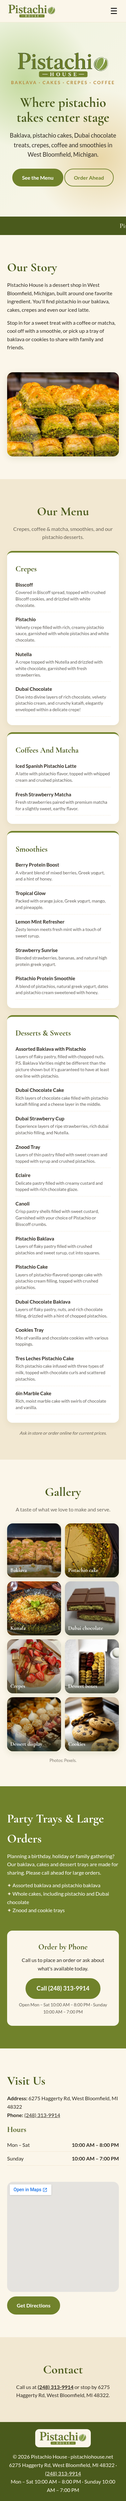
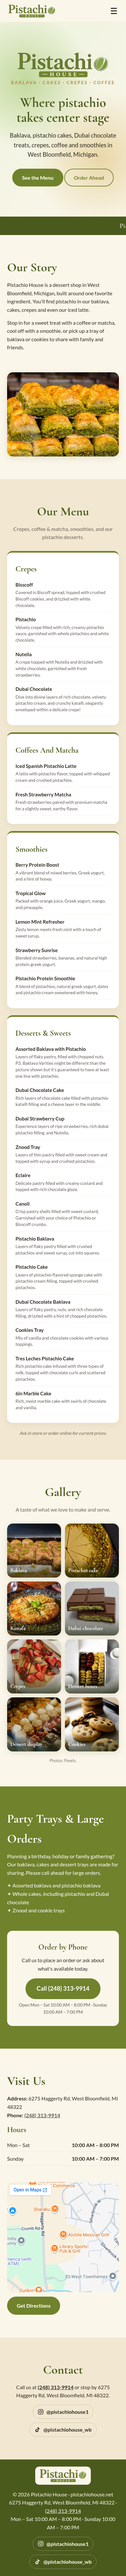
Add Instagram and TikTok links (contact, footer, JSON-LD sameAs)

diff --git a/index.html b/index.html
@@ -5,7 +5,7 @@
 <link rel="preconnect" href="https://fonts.googleapis.com"><link href="https://fonts.googleapis.com/css2?family=Cormorant+Garamond:wght@500;700&family=Lato:wght@400;700&display=swap" rel="stylesheet">
 <link rel="icon" href="favicon.ico" sizes="any"><link rel="icon" type="image/png" sizes="32x32" href="favicon-32.png"><link rel="apple-touch-icon" href="apple-touch-icon.png"><meta name="theme-color" content="#70822b">
 <meta property="og:type" content="website"><meta property="og:title" content="Pistachio House | Baklava, Pistachio Sweets &amp; Cakes"><meta property="og:description" content="Pistachio baklava, cakes, crepes, coffee and smoothies in West Bloomfield, MI."><meta property="og:url" content="https://pistachiohouse.net/"><meta property="og:image" content="https://pistachiohouse.net/images/og-image.png"><meta property="og:image:width" content="1200"><meta property="og:image:height" content="630"><meta name="twitter:card" content="summary_large_image">
-<link rel="stylesheet" href="styles.css"><script type="application/ld+json">{"@context":"https://schema.org","@type":["LocalBusiness","Bakery"],"name":"Pistachio House","url":"https://pistachiohouse.net","logo":"https://pistachiohouse.net/images/logo.png","image":"https://pistachiohouse.net/images/og-image.png","telephone":"+1-248-313-9914","address":{"@type":"PostalAddress","streetAddress":"6275 Haggerty Rd","addressLocality":"West Bloomfield","addressRegion":"MI","postalCode":"48322","addressCountry":"US"},"openingHoursSpecification":[{"@type":"OpeningHoursSpecification","dayOfWeek":["Monday","Tuesday","Wednesday","Thursday","Friday","Saturday"],"opens":"10:00","closes":"20:00"},{"@type":"OpeningHoursSpecification","dayOfWeek":"Sunday","opens":"10:00","closes":"19:00"}],"servesCuisine":"Desserts"}</script>
+<link rel="stylesheet" href="styles.css"><script type="application/ld+json">{"@context":"https://schema.org","@type":["LocalBusiness","Bakery"],"name":"Pistachio House","url":"https://pistachiohouse.net","sameAs":["https://www.instagram.com/pistachiohouse1/","https://www.tiktok.com/@pistachiohouse_wb"],"logo":"https://pistachiohouse.net/images/logo.png","image":"https://pistachiohouse.net/images/og-image.png","telephone":"+1-248-313-9914","address":{"@type":"PostalAddress","streetAddress":"6275 Haggerty Rd","addressLocality":"West Bloomfield","addressRegion":"MI","postalCode":"48322","addressCountry":"US"},"openingHoursSpecification":[{"@type":"OpeningHoursSpecification","dayOfWeek":["Monday","Tuesday","Wednesday","Thursday","Friday","Saturday"],"opens":"10:00","closes":"20:00"},{"@type":"OpeningHoursSpecification","dayOfWeek":"Sunday","opens":"10:00","closes":"19:00"}],"servesCuisine":"Desserts"}</script>
 </head><body>
 <header class="nav"><a href="#top" class="logo"><img src="images/logo-transparent.png" alt="Pistachio House" width="800" height="222"></a>
 <button class="burger" aria-label="Menu" onclick="document.body.classList.toggle('open')">☰</button>
@@ -27,7 +27,7 @@
 <div class="callbox"><h3>Order by Phone</h3><p>Call us to place an order or ask about what's available today.</p><a class="btn big" href="tel:+12483139914">Call (248) 313-9914</a><p class="small">Open Mon – Sat 10:00 AM – 8:00 PM · Sunday 10:00 AM – 7:00 PM</p></div></div></section>
 <section id="visit" class="wrap two"><div><h2>Visit Us</h2><p><b>Address:</b> 6275 Haggerty Rd, West Bloomfield, MI 48322<br><b>Phone:</b> <a href="tel:+12483139914">(248) 313-9914</a></p><h3>Hours</h3><table class="hours"><tr><td>Mon – Sat</td><td>10:00 AM – 8:00 PM</td></tr><tr><td>Sunday</td><td>10:00 AM – 7:00 PM</td></tr></table></div>
 <div class="mapbox"><iframe title="Map to Pistachio House" src="https://maps.google.com/maps?q=6275+Haggerty+Rd,+West+Bloomfield,+MI+48322&amp;output=embed" loading="lazy" referrerpolicy="no-referrer-when-downgrade"></iframe><a class="btn" target="_blank" rel="noopener" href="https://www.google.com/maps/dir/?api=1&amp;destination=6275+Haggerty+Rd,+West+Bloomfield,+MI+48322">Get Directions</a></div></section>
-<section id="contact" class="cream"><div class="wrap c"><h2>Contact</h2><p>Call us at <b><a href="tel:+12483139914">(248) 313-9914</a></b> or stop by 6275 Haggerty Rd, West Bloomfield, MI 48322.</p></div></section>
-<footer><img class="foot-logo" src="images/logo-transparent.png" alt="Pistachio House" width="800" height="222"><br>© <span id="y"></span> Pistachio House · pistachiohouse.net<br>6275 Haggerty Rd, West Bloomfield, MI 48322 · <a href="tel:+12483139914">(248) 313-9914</a><br>Mon – Sat 10:00 AM – 8:00 PM · Sunday 10:00 AM – 7:00 PM</footer>
+<section id="contact" class="cream"><div class="wrap c"><h2>Contact</h2><p>Call us at <b><a href="tel:+12483139914">(248) 313-9914</a></b> or stop by 6275 Haggerty Rd, West Bloomfield, MI 48322.</p><p class="social"><a href="https://www.instagram.com/pistachiohouse1/" target="_blank" rel="noopener" aria-label="Instagram @pistachiohouse1"><svg viewBox="0 0 24 24" width="20" height="20" aria-hidden="true" fill="none" stroke="currentColor" stroke-width="2" stroke-linecap="round" stroke-linejoin="round"><rect x="3" y="3" width="18" height="18" rx="5"/><circle cx="12" cy="12" r="4"/><circle cx="17.5" cy="6.5" r="1" fill="currentColor" stroke="none"/></svg><span>@pistachiohouse1</span></a><a href="https://www.tiktok.com/@pistachiohouse_wb" target="_blank" rel="noopener" aria-label="TikTok @pistachiohouse_wb"><svg viewBox="0 0 24 24" width="20" height="20" aria-hidden="true" fill="currentColor"><path d="M16.6 5.82A4.28 4.28 0 0 1 15.54 3h-3.09v12.4a2.59 2.59 0 0 1-2.59 2.5c-1.42 0-2.6-1.16-2.6-2.6 0-1.72 1.66-3.01 3.37-2.48V9.66c-3.45-.46-6.47 2.22-6.47 5.64 0 3.33 2.76 5.7 5.69 5.7 3.14 0 5.69-2.55 5.69-5.7V9.01a7.35 7.35 0 0 0 4.3 1.38V7.3s-1.88.09-3.24-1.48z"/></svg><span>@pistachiohouse_wb</span></a></p></div></section>
+<footer><img class="foot-logo" src="images/logo-transparent.png" alt="Pistachio House" width="800" height="222"><br>© <span id="y"></span> Pistachio House · pistachiohouse.net<br>6275 Haggerty Rd, West Bloomfield, MI 48322 · <a href="tel:+12483139914">(248) 313-9914</a><br>Mon – Sat 10:00 AM – 8:00 PM · Sunday 10:00 AM – 7:00 PM<div class="social"><a href="https://www.instagram.com/pistachiohouse1/" target="_blank" rel="noopener" aria-label="Instagram @pistachiohouse1"><svg viewBox="0 0 24 24" width="20" height="20" aria-hidden="true" fill="none" stroke="currentColor" stroke-width="2" stroke-linecap="round" stroke-linejoin="round"><rect x="3" y="3" width="18" height="18" rx="5"/><circle cx="12" cy="12" r="4"/><circle cx="17.5" cy="6.5" r="1" fill="currentColor" stroke="none"/></svg><span>@pistachiohouse1</span></a><a href="https://www.tiktok.com/@pistachiohouse_wb" target="_blank" rel="noopener" aria-label="TikTok @pistachiohouse_wb"><svg viewBox="0 0 24 24" width="20" height="20" aria-hidden="true" fill="currentColor"><path d="M16.6 5.82A4.28 4.28 0 0 1 15.54 3h-3.09v12.4a2.59 2.59 0 0 1-2.59 2.5c-1.42 0-2.6-1.16-2.6-2.6 0-1.72 1.66-3.01 3.37-2.48V9.66c-3.45-.46-6.47 2.22-6.47 5.64 0 3.33 2.76 5.7 5.69 5.7 3.14 0 5.69-2.55 5.69-5.7V9.01a7.35 7.35 0 0 0 4.3 1.38V7.3s-1.88.09-3.24-1.48z"/></svg><span>@pistachiohouse_wb</span></a></div></footer>
 <script>document.getElementById('y').textContent=new Date().getFullYear();document.querySelectorAll('nav a').forEach(a=>a.onclick=()=>document.body.classList.remove('open'));</script>
 </body></html>

diff --git a/styles.css b/styles.css
@@ -51,3 +51,7 @@ footer a{color:inherit}
 .menu-grid .mi{display:block}
 @media(max-width:1000px){.gal{grid-template-columns:repeat(2,1fr)}}
 @media(max-width:780px){.gal{gap:12px}.gal .photo{aspect-ratio:1}.about-photo{aspect-ratio:4/3}.gal figcaption{font-size:1.05rem;padding:22px 10px 8px}}
+.social{display:flex;flex-wrap:wrap;justify-content:center;gap:12px 22px;margin-top:16px}
+.social a{display:inline-flex;align-items:center;gap:8px;text-decoration:none;font-weight:700;color:var(--gd);padding:8px 14px;border-radius:30px;border:1px solid rgba(74,90,28,.25);transition:background .2s}
+.social a:hover{background:rgba(112,130,43,.12)}
+footer .social a{color:var(--c);border-color:rgba(251,246,234,.35)}footer .social a:hover{background:rgba(251,246,234,.12)}
